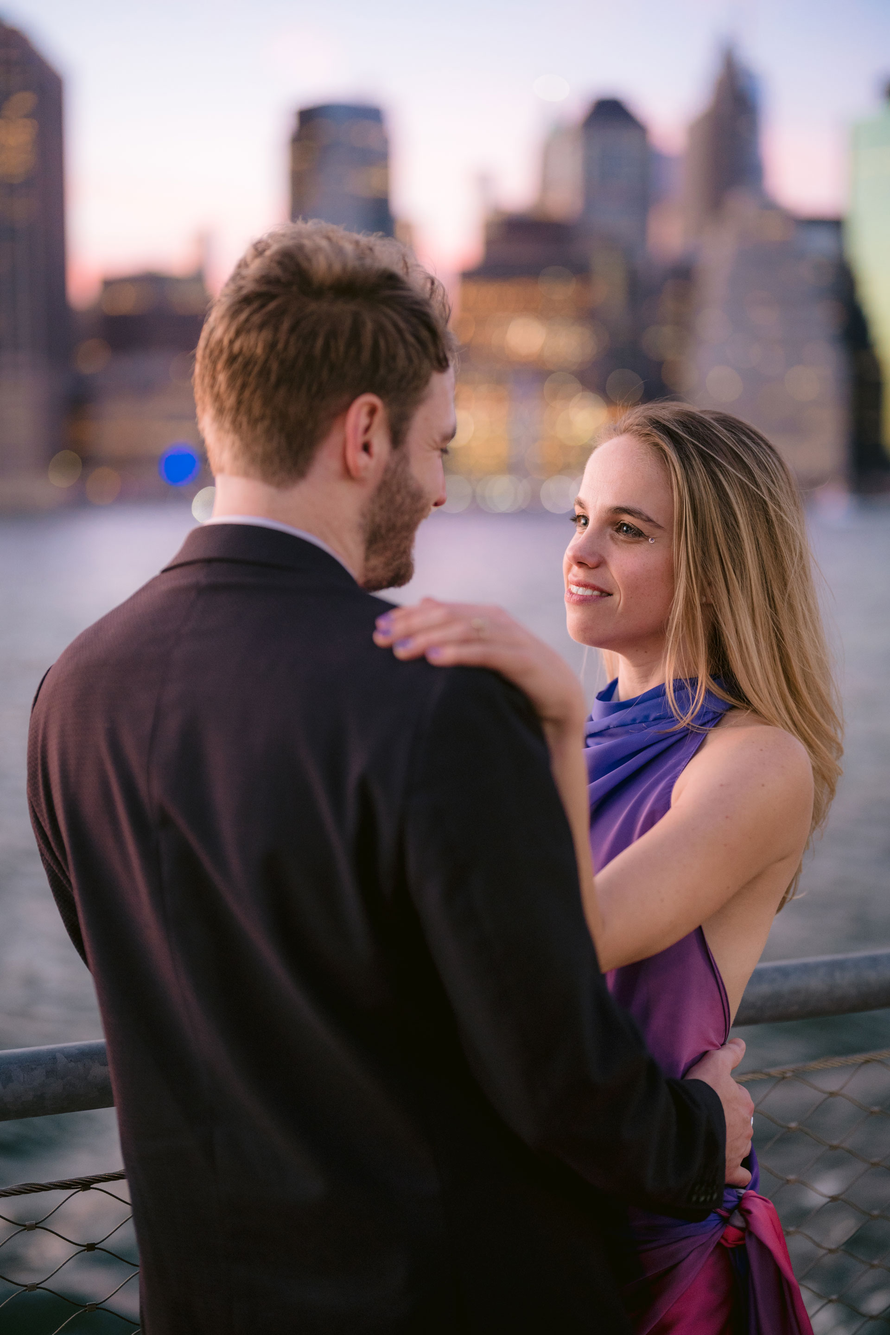
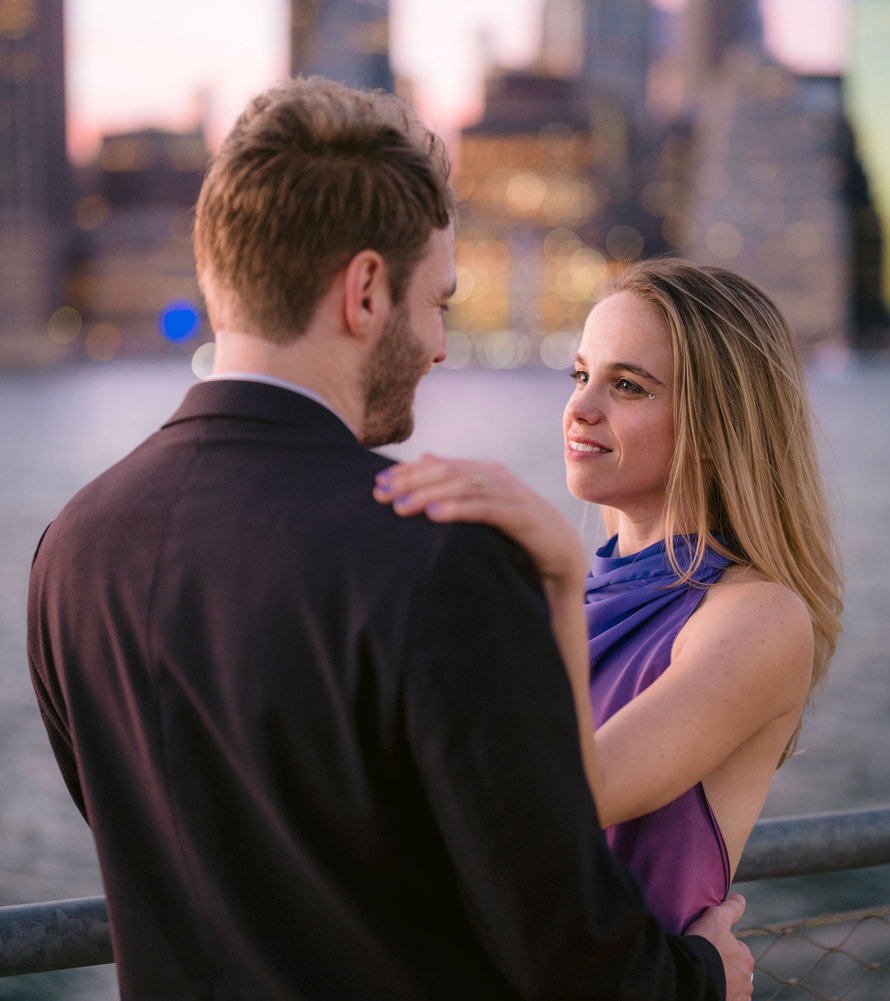
fix images and copy edits

diff --git a/src/components/App.tsx b/src/components/App.tsx
@@ -111,9 +111,9 @@ const App: React.FC = () => {
                 </p>
                 <p>
                   Upon receiving a Facebook message from Andrew, Brynn didn't remember who he was
-                  and had to ask another mutual friend to reminder her that they met after
-                  Dreamstate the previous summer. It's safe to say that after the weekend was over,
-                  she would never forget him again.
+                  and had to ask another mutual friend to remind her that they met after Dreamstate
+                  the previous summer. It's safe to say that after the weekend was over, she would
+                  never forget him again.
                 </p>
               </>
             }
@@ -179,7 +179,7 @@ const App: React.FC = () => {
                   Andrew moved in with Brynn in July of 2021, after she upgraded to a (much needed)
                   one-bedroom apartment in her building in Brooklyn. Despite the pandemic's many
                   hardships, they loved dating in the same city. Brynn also fell madly in love with
-                  Andrew's cat, Leia, who they flew from Texas to NYC in January of 2021.
+                  Andrew's cat, Leia, whom they flew from Texas to NYC in January of 2021.
                 </p>
               </>
             }
@@ -199,8 +199,8 @@ const App: React.FC = () => {
                   Andrew <span className="amp">&amp;</span> Brynn had made plans to fly to Europe in
                   September of 2021, hilariously enough to attend a festival hosted by that certain
                   aforementioned "trance" DJ above. While the festival was cancelled last-minute due
-                  to Omicron, they decided to go anyway, spending a weekend in Utrecht and then
-                  flying to France for a three-day biking tour of Provence.
+                  to Covid's Delta era, they decided to go anyway, spending a weekend in Utrecht and
+                  then flying to France for a three-day biking tour of Provence.
                 </p>
                 <p>
                   On their first day in France, they climbed the Pope's Castle during golden hour in
@@ -241,13 +241,7 @@ const App: React.FC = () => {
             icon={ICON_MAP.fire}
             description="friday, june second, 6–11pm"
             subtitle="Cookout Point"
-            body={
-              <>
-                For guests staying at Migis, dinner will be provided at the cookout point. Dress
-                code is sport coat or button down for men <span className="amp">&amp;</span>{' '}
-                sundresses for women.
-              </>
-            }
+            body={<>Dinner will be provided at the cookout point. Dress code is semi-formal.</>}
           />
 
           <Divider />
@@ -278,7 +272,7 @@ const App: React.FC = () => {
             subtitle="Main Lodge"
             body={
               <>
-                For guests staying at Migis, boxed lunches with assorted sandwiches, chips, cookies,{' '}
+                Boxed lunches with assorted sandwiches, chips, cookies,{' '}
                 <span className="amp">&amp;</span> fruit will be available in the main lodge.
               </>
             }
@@ -294,9 +288,8 @@ const App: React.FC = () => {
             subtitle="The Lawn"
             body={
               <>
-                Dress code is suit and tie for men <span className="amp">&amp;</span> cocktail
-                dresses for women. Our ceremony will take place on grass, so plan your shoes
-                accordingly!
+                Dress code is formal attire. Our ceremony will take place on grass, so plan your
+                shoes accordingly!
               </>
             }
           />
@@ -324,7 +317,7 @@ const App: React.FC = () => {
             icon={ICON_MAP.brunch}
             description="sunday, june fourth, 9–11am"
             subtitle="Cookout Point"
-            body="For guests staying at Migis, brunch will be provided at the cookout point."
+            body="Brunch will be provided at the cookout point."
           />
         </Section>
         <Section id="travel">
@@ -357,7 +350,7 @@ const App: React.FC = () => {
             icon={ICON_MAP.hotel}
             description="965 Roosevelt Trail, Windham"
             subtitle="(207) 893-8870"
-            body="For those that would prefer to stay offsite, the Microtel is a 10 minute drive
+            body="For those that prefer to stay offsite, the Microtel is a 10 minute drive
               from Migis. The lodge and its amenities will still be available to you throughout
               the weekend. There will not be transportation provided from the Microtel."
           />

diff --git a/src/components/RSVPForm.tsx b/src/components/RSVPForm.tsx
@@ -9,7 +9,6 @@ import {
   RadioGroup,
   Divider,
   Card,
-  FormHelperText,
 } from '@mui/material';
 import {MealChoice, RSVP, RSVPs} from '../types';
 
@@ -36,7 +35,7 @@ const RSVPForm: React.FC<Props> = ({rsvps, rsvpType, setRSVP, error}: Props) => 
           size="large"
           disabled={!rsvps.guest_rsvp.response}
         >
-          I'm Bringing a Plus One
+          I'm Bringing a +1
         </Button>
       </Card>
     );
@@ -45,20 +44,19 @@ const RSVPForm: React.FC<Props> = ({rsvps, rsvpType, setRSVP, error}: Props) => 
     <Card className="rsvp-form">
       <TextField
         id={`name-${rsvpType}`}
-        label="Name"
+        label={rsvpType === 'guest_rsvp' ? 'Name' : `+1's Name`}
         variant="outlined"
         size="small"
         autoFocus={rsvpType === 'guest_rsvp'}
         value={rsvps[rsvpType].name || ''}
         onChange={(e) => setRSVP(e, {name: e.target.value}, rsvpType)}
         error={!!error}
+        helperText={error}
       />
-      <FormHelperText>{error}</FormHelperText>
 
-      {/* TODO: don't show when updating? */}
       <TextField
         id={`email-${rsvpType}`}
-        label="Email"
+        label={rsvpType === 'guest_rsvp' ? 'Name' : `+1's Email`}
         variant="outlined"
         size="small"
         value={rsvps[rsvpType].email || ''}
@@ -69,7 +67,7 @@ const RSVPForm: React.FC<Props> = ({rsvps, rsvpType, setRSVP, error}: Props) => 
         <>
           <FormControl>
             <FormLabel id={`response-group-${rsvpType}`} className="rsvp-label">
-              can you attend the wedding?
+              can {rsvpType === 'guest_rsvp' ? 'you' : 'your +1'} attend the wedding?
             </FormLabel>
             <RadioGroup
               aria-labelledby={`response-group-${rsvpType}`}
@@ -88,7 +86,7 @@ const RSVPForm: React.FC<Props> = ({rsvps, rsvpType, setRSVP, error}: Props) => 
         <>
           <FormControl>
             <FormLabel id={`meal-choice-group-${rsvpType}`} className="rsvp-label">
-              what is your meal preference?
+              what is {rsvpType === 'guest_rsvp' ? 'your' : `your +1's`} meal preference?
             </FormLabel>
             <RadioGroup
               aria-labelledby={`meal-choice-group-${rsvpType}`}
@@ -108,7 +106,8 @@ const RSVPForm: React.FC<Props> = ({rsvps, rsvpType, setRSVP, error}: Props) => 
           <Divider />
           <FormControl>
             <FormLabel id={`rehearsal-dinner-group-${rsvpType}`} className="rsvp-label">
-              can you attend the welcome party on june second?
+              can {rsvpType === 'guest_rsvp' ? 'you' : 'your +1'} attend the welcome party on june
+              second?
             </FormLabel>
             <RadioGroup
               aria-labelledby={`rehearsal-dinner-group-${rsvpType}`}
@@ -116,8 +115,8 @@ const RSVPForm: React.FC<Props> = ({rsvps, rsvpType, setRSVP, error}: Props) => 
               value={rsvps[rsvpType].rehearsal_dinner ? 'yes' : 'no'}
               onChange={(e, value) => setRSVP(e, {rehearsal_dinner: value === 'yes'}, rsvpType)}
             >
-              <FormControlLabel value="yes" control={<Radio size="small" />} label="Yep" />
-              <FormControlLabel value="no" control={<Radio size="small" />} label="Nope" />
+              <FormControlLabel value="yes" control={<Radio size="small" />} label="Yes" />
+              <FormControlLabel value="no" control={<Radio size="small" />} label="No" />
             </RadioGroup>
           </FormControl>
         </>

diff --git a/src/components/styles.css b/src/components/styles.css
@@ -4,6 +4,11 @@
   max-height: unset;
 }
 
+.image-gallery-slide .image-gallery-image {
+  height: 100vh;
+  object-fit: cover;
+}
+
 html {
   scroll-behavior: smooth;
 }
@@ -64,13 +69,13 @@ h3 {
 .photo {
   flex: 1;
   overflow: hidden;
-}
-
-.photo img {
-  width: 100%;
-  top: -300px;
   position: relative;
 }
+
+/* .photo img {
+  height: 100vh;
+  object-fit: cover;
+} */
 
 .content {
   flex: 1;
@@ -216,13 +221,17 @@ a:hover {
   flex: 1;
 }
 
+.content .rsvp-form .MuiButton-root {
+  margin: 20px 5px 10px 0;
+}
+
 @media only screen and (max-width: 1660px) {
   .photo img {
     top: 0;
   }
 }
 
-@media only screen and (max-width: 1230px) {
+@media only screen and (max-width: 1199px) {
   .App {
     flex-direction: column;
   }
@@ -232,12 +241,8 @@ a:hover {
   }
 
   .photo {
-    min-height: 50vh;
-    height: 50vh;
-  }
-
-  .photo img {
-    top: -200px;
+    min-height: 60vh;
+    height: 60vh;
   }
 
   .content {
@@ -246,16 +251,21 @@ a:hover {
 
   .intro,
   .intro-content {
-    min-height: 40vh;
-    height: 40vh;
+    min-height: 30vh;
+    height: 30vh;
   }
 
   .logo {
     width: 33vw;
+    margin: 2vh 0;
+  }
+
+  .date {
+    margin-bottom: 2vh;
   }
 }
 
-@media only screen and (max-width: 768px) {
+@media only screen and (max-width: 767px) {
   .photo {
     min-height: 60vh;
     height: 60vh;
@@ -275,22 +285,17 @@ a:hover {
   }
 
   .photo img {
-    top: -40px;
+    position: relative;
+    top: -20vh;
   }
 
   .logo {
     width: 50vw;
-    margin: 3vh 0;
-  }
-
-  .date {
-    margin-bottom: 3vh;
   }
 
   .location {
     font-size: 18px;
     line-height: 24px;
-    margin-bottom: 12px;
   }
 
   .date {
